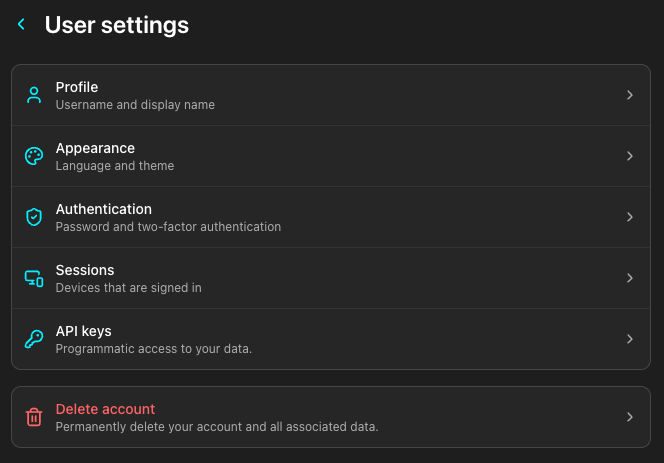
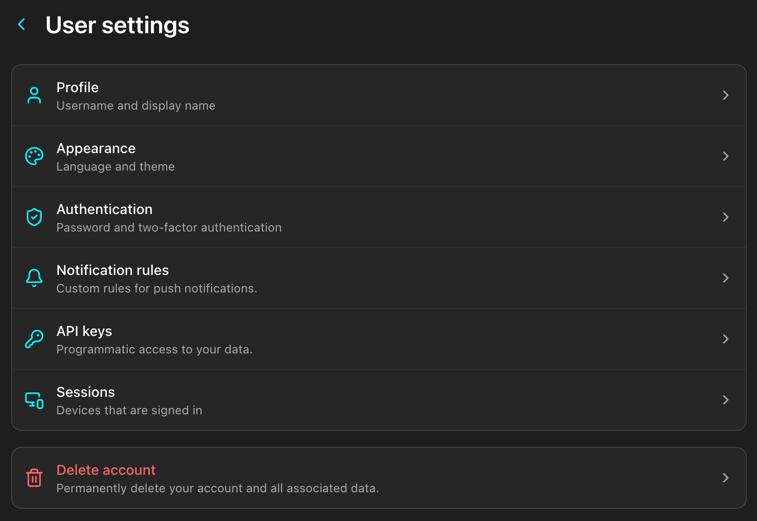
Update docs

diff --git a/README.md b/README.md
@@ -8,9 +8,6 @@ This app is heavily inspired by [Finanzguru](https://finanzguru.de/), with the k
 
 The tool is strictly read-only: it only ever *reads* your data and can **never** make changes to your accounts or move money.
 
-> [!NOTE]
-> This project is still in early development and [might include major changes in the near future](#future-changes).
-
 This app is primarily intended for German users. You can find the reason for this in the [supported banks](#supported-banks) section.
 
 ## Screenshots
@@ -50,10 +47,6 @@ This app is primarily intended for German users. You can find the reason for thi
 
 <img src="docs/screenshots/statistics.png" width="400" alt="Statistics">
 
-**Settings Overview**
-
-<img src="docs/screenshots/settings.png" width="400" alt="Settings entry point">
-
 **Bank connections**: The list of connected banks
 
 <img src="docs/screenshots/settings_credentials.png" width="400" alt="Bank connections">
@@ -78,6 +71,10 @@ This app is primarily intended for German users. You can find the reason for thi
 
 <img src="docs/screenshots/settings_user_2fa.png" width="400" alt="2FA settings">
 
+**Notifications**: Create custom rules for notifications based on account balances, transaction amounts, or other criteria.
+
+<img src="docs/screenshots/settings_user_notifications.png" width="400" alt="Notifications settings">
+
 </details>
 
 ## Features
@@ -86,20 +83,22 @@ This app is primarily intended for German users. You can find the reason for thi
 - **Multiple connection types**: Connects to multiple banks to fetch your data, see the [supported banks](#supported-banks) section
 - **Automatic background syncing** on a configurable interval, plus on-demand sync
 - **Transactions grouped by date**, covering past, today, and future entries (some bank apps, such as ING, don't show future transactions)
-- **Balance on any date**: see what an account's balance or the sum of multiple account balances were on a given day
+- **Balance on any date**: See what an account's balance or the sum of multiple account balances were on a given day
 - **Statistics**: View diagrams about your financial data, grouped by account, time, and category.
 - **Search** for transactions across all accounts
 - **Automatic and manual categorization** of transactions
-- **Account balance at date**: see what an account's balance was on a given day
+- **Account balance at date**: See what an account's balance was on a given day
   - This includes your normal bank accounts with simple incoming and outgoing transactions,
   - But also banks such as Trade Republic. For e.g. Trade Republic in Questor you can see how much your holdings of an individual stock were worth on a given date.
   - This information is not even visible in their app as their api does not provide it. Questor fetches all relevant data and calculates the balance on the fly.
 - **Custom notes** on transactions
-- **Account groups**: drag accounts into your own groups to organize the overview
+- **Account groups**: Drag accounts into your own groups to organize the overview
 - **Multi-language** interface (English & German (add an issue for another requested language))
-- **Session management**: review active logins and sign out individual sessions
+- **Session management**: Review active logins and sign out individual sessions
 - **Light & dark mode**
 - **API keys**: Create personal API keys in your settings to interact with the backend programmatically with the same access as the frontend; keys are shown once, stored as hashed values, and can be revoked at any time. The docs are available on `<your instance url>/redoc` and on [GitHub](https://quaestordocs.fschneider.me/).
+- **Notifications**: Create custom rules for notifications based on account balances, transaction amounts, or other criteria.
+  - These fire on your phone even when the app is not running.
 
 ## Supported banks
 
@@ -223,11 +222,19 @@ Ideas I might want to implement in the future are tracked as [`enhancement` issu
 
 ## Troubleshooting
 
-### Why don't push notifications arrive on desktop?
+### Notifications
 
-Sometimes the browser's persistent connection to its push service (Chrome's FCM channel) breaks (e.g., stuck after a network or VPN change).
+#### General
 
-Open [chrome://gcm-internals](chrome://gcm-internals) and check the `Connection State` under `Device Info`:
+**Q: My notifications don't work at all?**
+
+**A:** Make sure your instance is served over `HTTPS`. Browsers only allow push notifications (and the service worker they rely on) in a secure context, so notifications will never work over plain `http://`. See the `SSL_CERTFILE`/`SSL_KEYFILE` and `SESSION_COOKIE_SECURE` environment variables, or terminate TLS at a reverse proxy in front of the app.
+
+#### Desktop
+
+**Q: Why don't notifications arrive on desktop?**
+
+**A:** The cause is usually that the browser's persistent connection to its push service (Chrome's FCM channel) broke (e.g., stuck after a network or VPN change). Open [chrome://gcm-internals](chrome://gcm-internals) and check the `Connection State` under `Device Info`:
 
 - If it shows `CONNECTED`, the channel is up and the problem is elsewhere; most likely browser or OS settings. Make sure notifications are allowed for the site in the browser, that the browser is allowed to send notifications in your OS settings, and that no focus/do-not-disturb mode is suppressing them.
 - If it shows anything else (e.g. `WAITING FOR NETWORK CHANGE`), the browser isn't connected to the push service, so nothing can be delivered. Restart the browser and re-establish the internet connection (e.g. toggle Wi-Fi off and on). Reload `chrome://gcm-internals` afterwards to confirm the state is now `CONNECTED`.